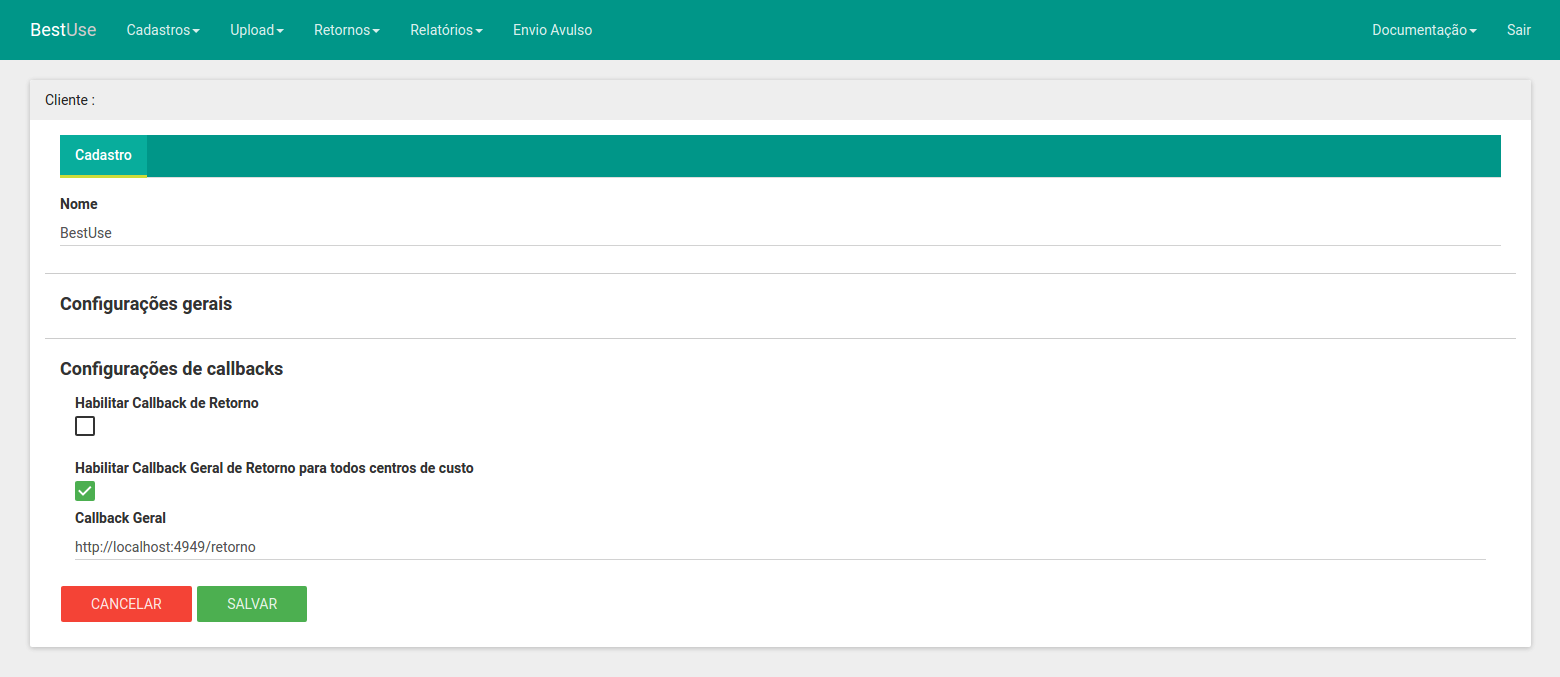
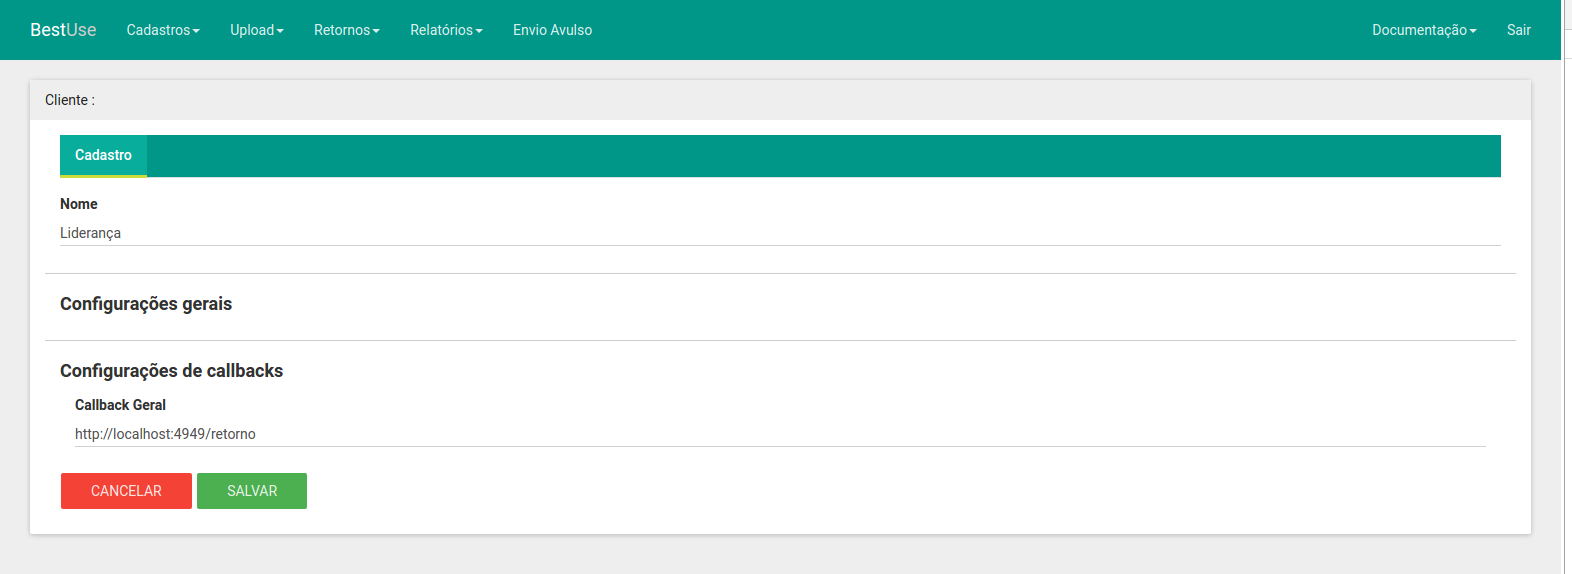
[finalizado] ajustos

Changed region(s): [[0.0, 0.0, 1.0, 0.4739], [0.0308, 0.5035, 0.9846, 0.9477]]

diff --git a/README.md b/README.md
@@ -26,7 +26,7 @@
 
 * **Listar**
 
-```
+```javascript
 GET http://v2.bestuse.com.br/api/v1/centrocusto?token=CHAVE_DA_API
 ```
 
@@ -317,72 +317,30 @@ POST http://v2.bestuse.com.br/api/v1/envioApi?token=CHAVE_DA_API
 
 ```javascript
 {
- "success": true,
- "data": {
-   "totalSmsSalvos": 2,
-   "arquivoGerado": "envioAPI/envio_api_LOTES_2016-09-20 10:03:26:200_Websix.api",
-   "id": "57e1339ee9158a6211534279" <- id do arquivo gerado
- },
- "err": "",
- "msg": "Lote submetido com sucesso!"
+  "success": true,
+  "err": "",
+  "id": "58a47922b3f7873826da2791", // id do arquivo (lote) gerado // esse campo não vem quando vai salvar na temp
+  "msg": "Lote recebido com sucesso",
+  "bloqueados": 1, // total de sms bloqueados pelo tamanho da mensagem
+  "validos": 2, // total de smss validos
+  "invalidos": 0, // total de smss invalidos
+  "smsBloqueados": [ // sms que foram bloqueados devido ao tamanho da mensagem (opção ativada no cliente)
+    {
+      "numero": "4299981464",
+      "mensagem": "Sr(a) Fulano. Aproveite esta oportunidade e resolva suas pendencias educacionais.Sr(a) Fulano. Aproveite esta oportunidade e resolva suas pendencias educacionais.Sr(a) Fulano. Aproveite esta oportunidade e resolva suas pendencias educacionais."
+    }
+  ],
+  "smsSalvos": [ //array de sms que foram realmente salvos no lote gerado
+    {
+      "numero": "42999981464",
+      "mensagem": "Sr(a) Fulano. Aproveite esta oportunidade e resolva suas pendencias educacionais."
+    },
+    {
+      "numero": "42999981464",
+      "mensagem": "Sr(a) Fulano. Aproveite esta oportunidade e resolva suas pendencias educacionais."
+    }
+  ]
 }
-
-
-
-  {
-    "success": true,
-    "err": "",
-    "id": "58a47922b3f7873826da2791", // id do arquivo (lote) gerado // esse campo não vem quando vai salvar na temp
-    "msg": "Lote recebido com sucesso",
-    "bloqueados": 1, // total de sms bloqueados pelo tamanho da mensagem
-    "validos": 2, // total de smss validos
-    "invalidos": 0, // total de smss invalidos
-    "smsBloqueados": [ // sms que foram bloqueados devido ao tamanho da mensagem (opção ativada no cliente)
-      {
-        "numero": "4299981464",
-        "mensagem": "Sr(a) Fulano. Aproveite esta oportunidade e resolva suas pendencias educacionais.Sr(a) Fulano. Aproveite esta oportunidade e resolva suas pendencias educacionais.Sr(a) Fulano. Aproveite esta oportunidade e resolva suas pendencias educacionais."
-      }
-    ],
-    "smsSalvos": [ //array de sms que foram realmente salvos no lote gerado
-      {
-        "numero": "42999981464",
-        "mensagem": "Sr(a) Fulano. Aproveite esta oportunidade e resolva suas pendencias educacionais."
-      },
-      {
-        "numero": "42999981464",
-        "mensagem": "Sr(a) Fulano. Aproveite esta oportunidade e resolva suas pendencias educacionais."
-      }
-    ]
-  }
-```
-
-```
-//Envio em lote com envio imediato /Envio em lote com criação de lotes
-  {
-    "success": true,
-    "err": "",
-    "id": "58a47922b3f7873826da2791", // id do arquivo (lote) gerado // esse campo não vem quando vai salvar na temp
-    "msg": "Lote recebido com sucesso",
-    "bloqueados": 1, // total de sms bloqueados pelo tamanho da mensagem
-    "validos": 2, // total de smss validos
-    "invalidos": 0, // total de smss invalidos
-    "smsBloqueados": [ // sms que foram bloqueados devido ao tamanho da mensagem (opção ativada no cliente)
-      {
-        "numero": "4299981464",
-        "mensagem": "Sr(a) Fulano. Aproveite esta oportunidade e resolva suas pendencias educacionais.Sr(a) Fulano. Aproveite esta oportunidade e resolva suas pendencias educacionais.Sr(a) Fulano. Aproveite esta oportunidade e resolva suas pendencias educacionais."
-      }
-    ],
-    "smsSalvos": [ //array de sms que foram realmente salvos no lote gerado
-      {
-        "numero": "42999981464",
-        "mensagem": "Sr(a) Fulano. Aproveite esta oportunidade e resolva suas pendencias educacionais."
-      },
-      {
-        "numero": "42999981464",
-        "mensagem": "Sr(a) Fulano. Aproveite esta oportunidade e resolva suas pendencias educacionais."
-      }
-    ]
-  }
 ```
 
 ```javascript
@@ -540,16 +498,12 @@ POST http://v2.bestuse.com.br/api/v1/retornos?token=CHAVE_DA_API
 
 * **Callback de retrono por centro de custo**
 
-Para utilizar a Callback de Retorno por centro de custo primeiro tem que marcar a opçao "Habilitar Callback de Retorno" em [Dados da empresa](http://v2.bestuse.com.br/#!/clientes) e salva.
-
-![](./img/retornoCentroCusto.png)
-
-Em seguida vai em editar um dos centro de custo que deseja ter callback de retorno e digite a url de calback de retorno em "Callback de retorno" e salve.
+Para utilizar a Callback de Retorno por centro de custo primeiro tem que ir em editar um dos [centro de custo](http://v2.bestuse.com.br/#/centrocusto)  que deseja ter callback de retorno e digite a url de calback de retorno em "Callback de retorno" e salve.
 ![](./img/retornoCentroCustoUrl.png)
 
 Agora a callback de retorno por centro de custo está configurado, sempre que houver um retorno de menssagem enviado por esse centro de custo a api enviará um **POST** para essa url com o seguinte formato.
 
-```
+```javascript
 { _id: '58a499818d263b30481ce10c',
   mensagem: 'meuretorno10',
   idCustom: '5',
@@ -557,18 +511,19 @@ Agora a callback de retorno por centro de custo está configurado, sempre que ho
   sms: '58a337f2ccab534b778746b4',
   cliente: '5807c572fe10127f255aa1db',
   centroCusto: '5810f286981dd11003f8e4c3',
-  arquivo: '58a337ecccab534b778746b1' }
+  arquivo: '58a337ecccab534b778746b1'
+}
 ```
 
 * **Callback de retorno geral**
 
-Para utilizar a Callback de Retorno geral primeiro tem que marcar a opçao "Habilitar Callback Geral de Retorno para todos centros de custo" e adicionar a url em "Callback Geral" em [Dados da empresa](http://v2.bestuse.com.br/#!/clientes) e salva.
+Para utilizar a Callback de Retorno geral primeiro tem que ir editar e adicionar a url em "Callback Geral" em [Dados da empresa](http://v2.bestuse.com.br/#!/clientes) e salva.
 
 ![](./img/retornoGeral.png)
 
 Agora a callback de retorno geral está configurado, sempre que houver um retorno de menssagem enviado a api enviará um **POST** para essa url com os seguinte formato.
 
-```
+```javascript
 { _id: '58a49a9a8d263b30481ce10d',
   mensagem: 'meuretorno10',
   idCustom: '5',
@@ -576,5 +531,6 @@ Agora a callback de retorno geral está configurado, sempre que houver um retorn
   sms: '58a337f2ccab534b778746b4',
   cliente: '5807c572fe10127f255aa1db',
   centroCusto: '5810f286981dd11003f8e4c3',
-  arquivo: '58a337ecccab534b778746b1' }
+  arquivo: '58a337ecccab534b778746b1'
+}
 ```
